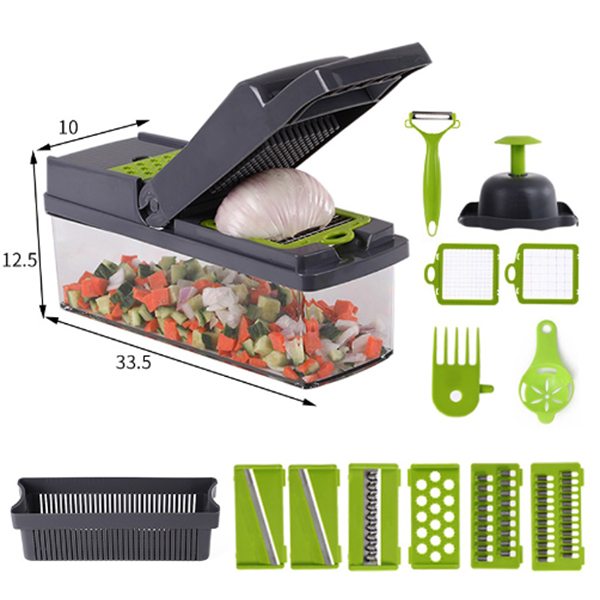
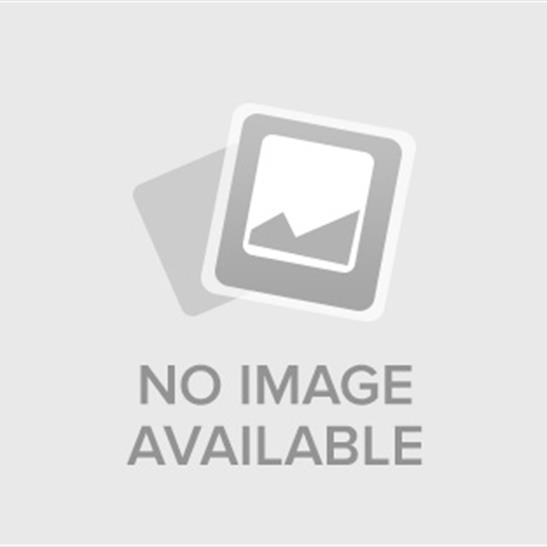
[Fix] Fix lỗi không hiển thị ảnh sản phẩm trong bảng danh sách SP của Admin

diff --git a/src/main/java/com/webgiadung/webgiadung/utils/FileUtils.java b/src/main/java/com/webgiadung/webgiadung/utils/FileUtils.java
@@ -4,7 +4,9 @@ import jakarta.servlet.http.Part;
 
 import java.io.File;
 import java.io.IOException;
+import java.nio.file.Files;
 import java.nio.file.Paths;
+import java.nio.file.StandardCopyOption;
 
 public class FileUtils {
 
@@ -18,15 +20,29 @@ public class FileUtils {
         String fileName = System.currentTimeMillis() + "_" + safeName;
         if ("slides".equals(subFolder) || "reviews".equals(subFolder) || "details".equals(subFolder) || "products".equals(subFolder)) {
 
-            String baseDir = "C:\\webgiadung_data\\uploads\\";
+            String baseDir = "D:\\DoAnLapTrinh\\DoAn\\DoAnWeb\\src\\main\\webapp\\";
             String uploadDir = baseDir + "assets\\img\\" + subFolder;
 
             File dir = new File(uploadDir);
             if (!dir.exists()) dir.mkdirs();
 
             part.write(uploadDir + File.separator + fileName);
+            try {
+                String tomcatUploadDir = realPath + "assets" + File.separator + "img" + File.separator + subFolder;
+                File tomcatDir = new File(tomcatUploadDir);
+                if (!tomcatDir.exists()) tomcatDir.mkdirs();
 
-            return "assets/img/" + subFolder + "/" + fileName;
+                java.nio.file.Path tomcatTargetPath = Paths.get(tomcatUploadDir, fileName);
+
+                java.nio.file.Path srcPath = Paths.get(uploadDir, fileName);
+                Files.copy(srcPath, tomcatTargetPath, StandardCopyOption.REPLACE_EXISTING);
+
+                System.out.println("--- Đã đồng bộ ảnh thành công sang thư mục Server! ---");
+            } catch (Exception e) {
+                System.out.println("Lỗi đồng bộ sang Tomcat: " + e.getMessage());
+            }
+
+            return fileName;
 
         } else {
             String uploadDir = realPath + "assets/img/" + subFolder;